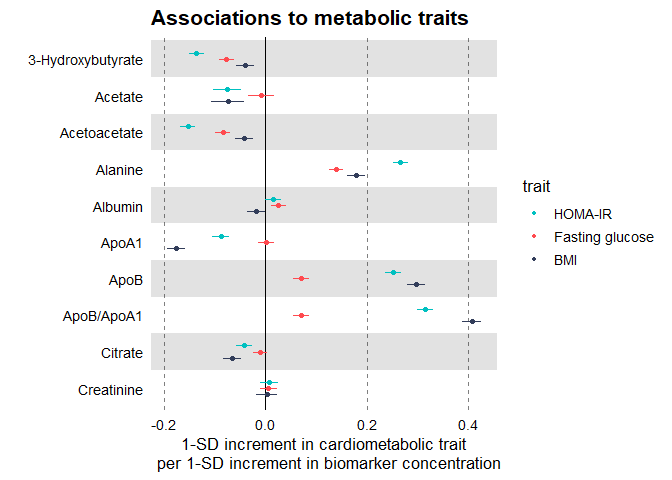
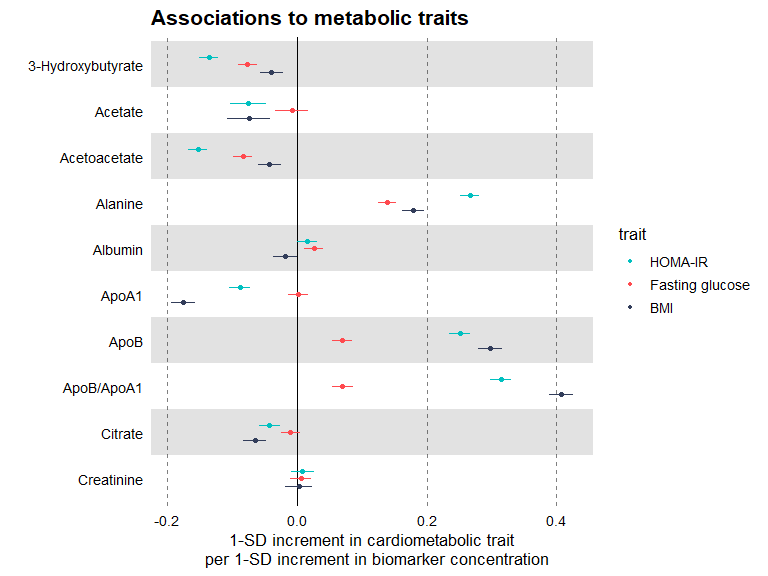
Update README examples, figure sizes and images
Adjust RMarkdown example chunks (set fig.height/fig.width) and tweak wording (e.g. "Associations to type 2 diabetes" → "Associations with type 2 diabetes"). Add a new "All together now!" section with example usages (including facet_col example) and hide the legend in examples. Regenerate README.md outputs (update package build warnings) and add/update several rendered figure files under man/figures (new and replaced PNGs) to reflect the updated examples.

Changed region(s): [[0.0312, 0.0, 0.9688, 1.0], [0.5, 0.3438, 0.5625, 0.375], [0.5938, 0.3125, 0.625, 0.3438]]

diff --git a/README.md b/README.md
@@ -1,6 +1,8 @@
 
 <!-- README.md is generated from README.Rmd. Please edit that file -->
 
+    ## Warning: package 'magrittr' was built under R version 4.4.3
+
 <br>
 
 <div style="text-align:left">
@@ -87,8 +89,16 @@ to insulin resistance (HOMA-IR), fasting glucose and Body Mass Index
 # Load tidyverse and ggforestplot
 # install.packages("tidyverse")
 library(tidyverse)
-#> Warning: package 'readr' was built under R version 4.3.3
-#> Warning: package 'lubridate' was built under R version 4.3.3
+#> Warning: package 'tidyverse' was built under R version 4.4.3
+#> Warning: package 'ggplot2' was built under R version 4.4.3
+#> Warning: package 'tibble' was built under R version 4.4.3
+#> Warning: package 'tidyr' was built under R version 4.4.3
+#> Warning: package 'readr' was built under R version 4.4.2
+#> Warning: package 'purrr' was built under R version 4.4.3
+#> Warning: package 'dplyr' was built under R version 4.4.3
+#> Warning: package 'stringr' was built under R version 4.4.3
+#> Warning: package 'forcats' was built under R version 4.4.2
+#> Warning: package 'lubridate' was built under R version 4.4.1
 library(ggforestplot)
 
 # Get subset of example, linear associations, data frame
@@ -162,7 +172,7 @@ forestplot(
   logodds = TRUE,
   colour = study,
   shape = study,
-  title = "Associations to type 2 diabetes",
+  title = "Associations with type 2 diabetes",
   xlab = "Odds ratio for incident type 2 diabetes (95% CI)
   per 1−SD increment in metabolite concentration"
 ) +
@@ -194,7 +204,7 @@ forestplot(
   psignif = 0.05,
   alpha = 0.50,
   filled_nonsig = TRUE,
-  title = "Associations to type 2 diabetes",
+  title = "Associations with type 2 diabetes",
   xlab = "Odds ratio for incident type 2 diabetes (95% CI)
   per 1−SD increment in metabolite concentration"
 ) +
@@ -239,6 +249,7 @@ Requires {ggforce} package
 
 ``` r
 library(ggforce)
+#> Warning: package 'ggforce' was built under R version 4.4.3
 
 # add grouping variable
 df_linear_groups <-   ggforestplot::df_linear_associations |>
@@ -265,3 +276,58 @@ forestplot(
 ```
 
 ![](man/figures/README-unnamed-chunk-8-1.png)<!-- -->
+
+#### All together now!
+
+``` r
+
+forestplot(
+  df = df_logodds |> dplyr::filter(study=="Meta-analysis"),
+  name = c(name, abbreviation),
+  estimate = beta,
+  logodds = TRUE,
+  shape = study,
+  pvalue = pvalue,
+  psignif = 0.05,
+  alpha = 0.50,
+  filled_nonsig = TRUE,
+  est_table = TRUE,
+  title = "Associations with type 2 diabetes",
+  xlab = "Odds ratio for incident type 2 diabetes (95% CI)
+  per 1−SD increment in metabolite concentration"
+) +
+  ggplot2::scale_shape_manual(values = c(23L)) +
+    theme(legend.position = "none")
+```
+
+![](man/figures/README-unnamed-chunk-9-1.png)<!-- -->
+
+``` r
+
+forestplot(
+  df = df_logodds |> dplyr::arrange(forcats::fct_rev(study)),
+  name = study,
+  estimate = beta,
+  logodds = TRUE,
+  shape = study,
+  pvalue = pvalue,
+  psignif = 0.05,
+  alpha = 0.50,
+  filled_nonsig = TRUE,
+  est_table = TRUE,
+  title = "Associations with type 2 diabetes",
+  xlab = "Odds ratio for incident type 2 diabetes (95% CI)
+  per 1−SD increment in metabolite concentration"
+) +
+  ggforce::facet_col(
+    facets = ~name,
+    scales = "free_y",
+    space = "free"
+  ) +
+  ggplot2::scale_shape_manual(
+    values = c(23L, 21L, 21L, 21L, 21L)
+  ) +
+  theme(legend.position = "none")
+```
+
+![](man/figures/README-unnamed-chunk-10-1.png)<!-- -->
